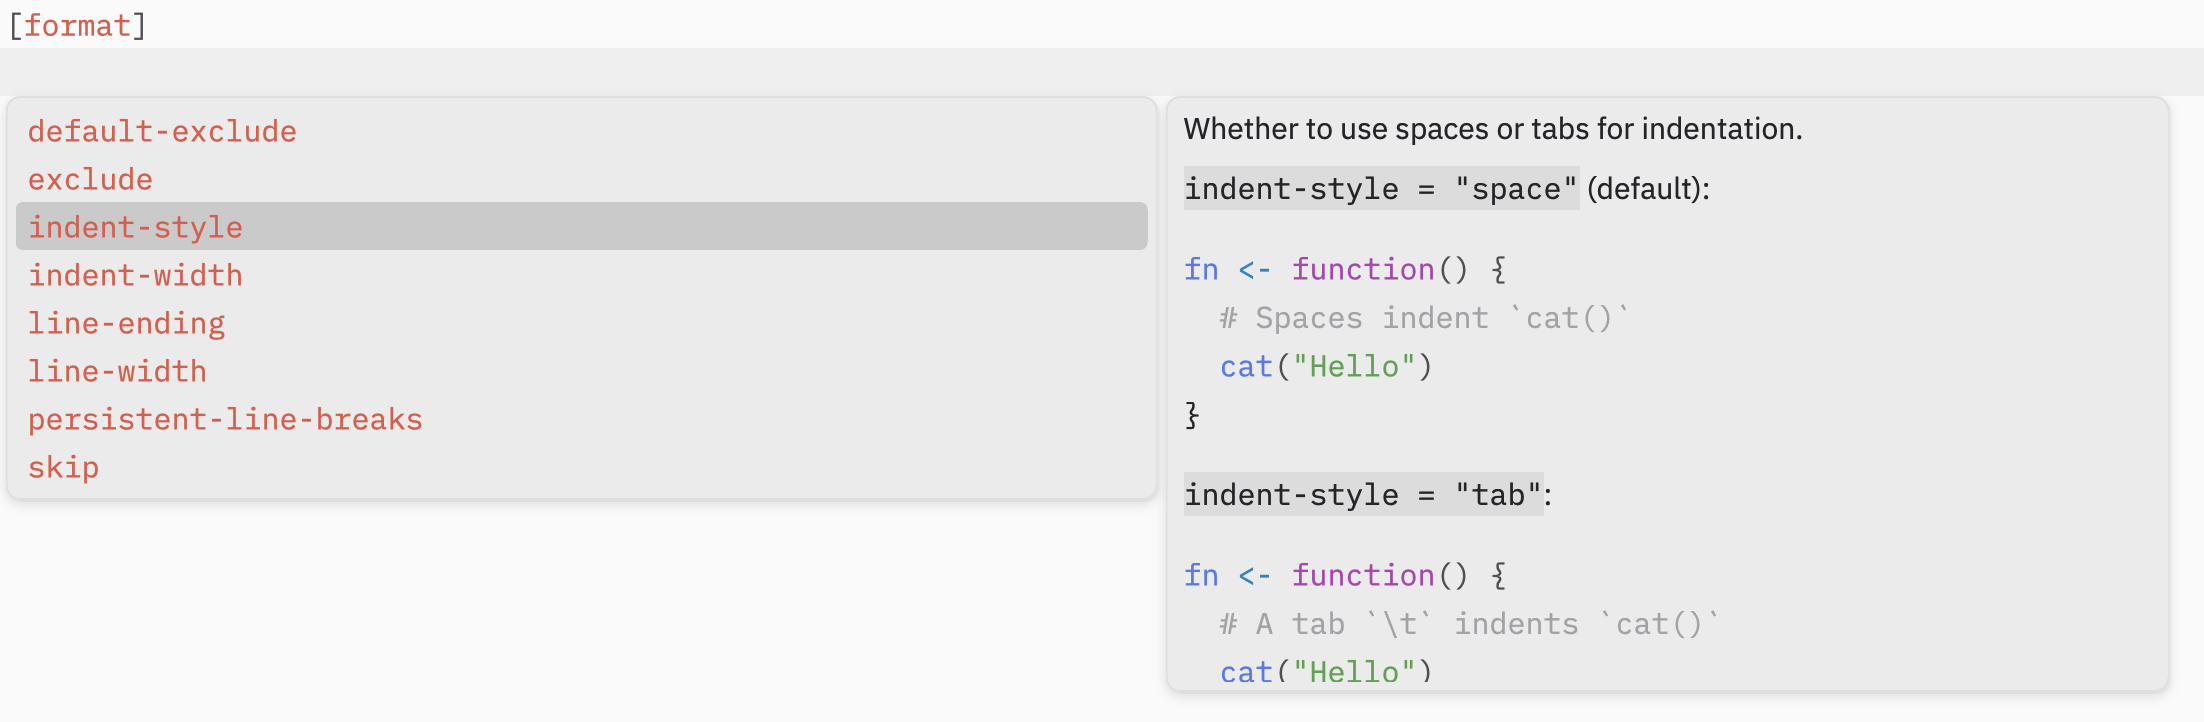
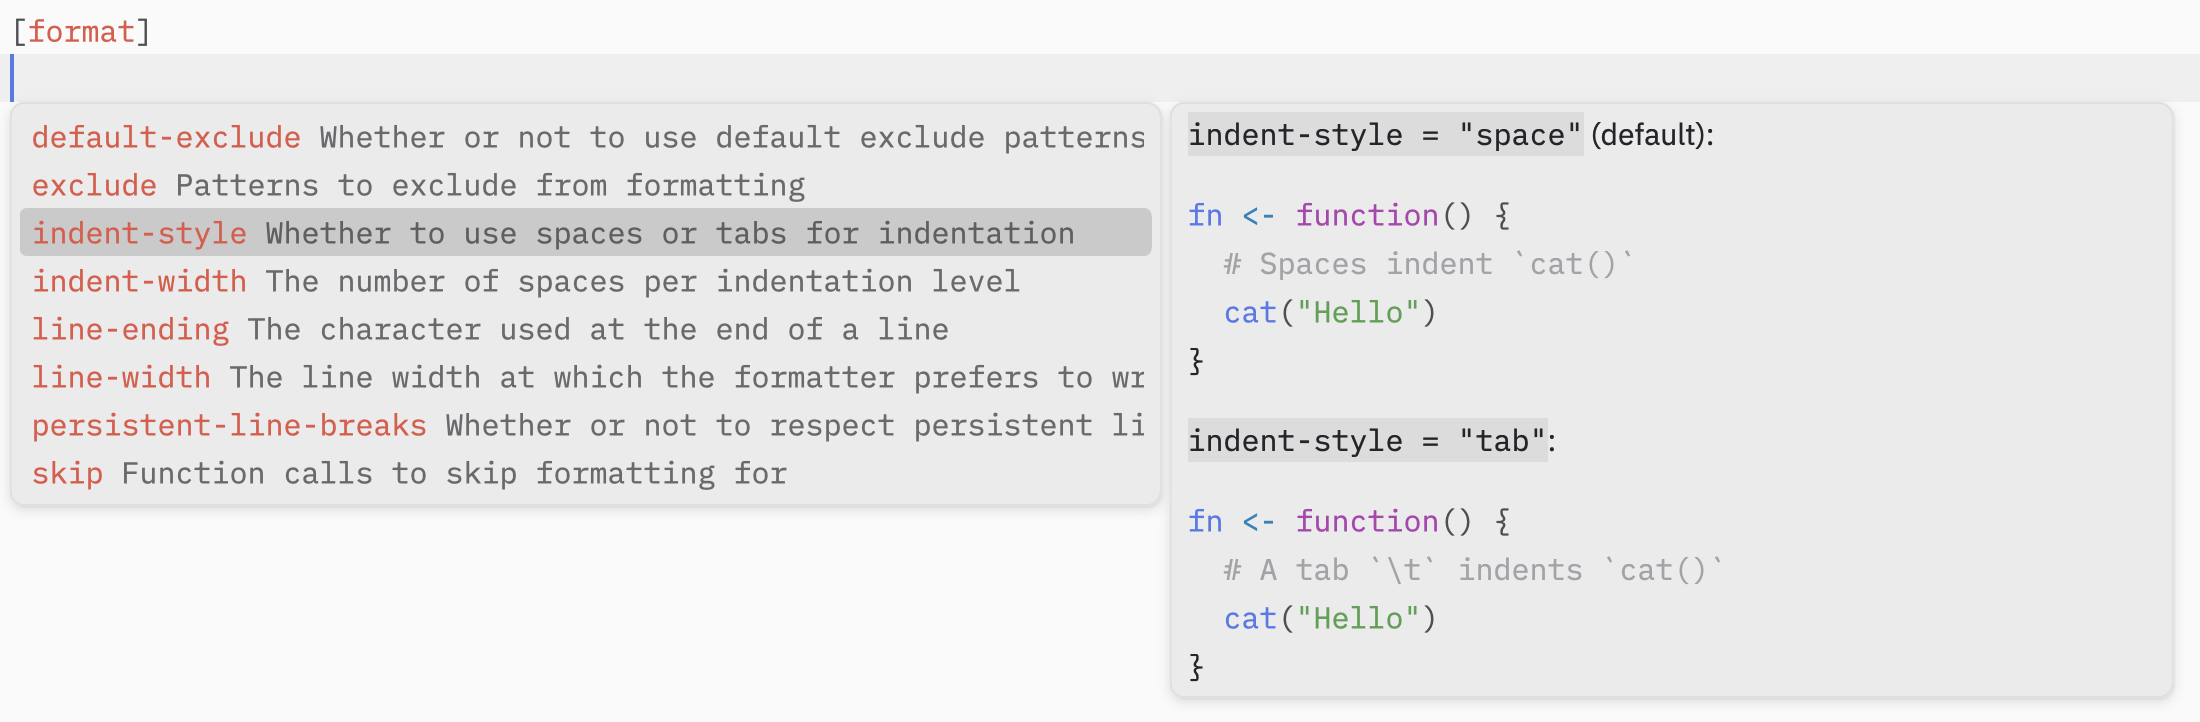
Add `title`s to the schema output
Using schemars H1 markdown headers

diff --git a/crates/workspace/src/toml_options.rs b/crates/workspace/src/toml_options.rs
@@ -48,7 +48,7 @@ pub struct GlobalTomlOptions {}
 #[serde(deny_unknown_fields, rename_all = "kebab-case")]
 #[cfg_attr(feature = "schemars", derive(schemars::JsonSchema))]
 pub struct FormatTomlOptions {
-    /// The line width at which the formatter prefers to wrap lines.
+    /// # The line width at which the formatter prefers to wrap lines
     ///
     /// The value must be greater than or equal to `1` and less than or equal to `320`.
     ///
@@ -57,7 +57,7 @@ pub struct FormatTomlOptions {
     /// `line-width`.
     pub line_width: Option<LineWidth>,
 
-    /// The number of spaces per indentation level.
+    /// # The number of spaces per indentation level
     ///
     /// The value must be greater than or equal to `1` and less than or equal to `24`. The
     /// default value is `2`.
@@ -69,7 +69,7 @@ pub struct FormatTomlOptions {
     /// = "tab"` for the purposes of computing the `line-width`.
     pub indent_width: Option<IndentWidth>,
 
-    /// Whether to use spaces or tabs for indentation.
+    /// # Whether to use spaces or tabs for indentation
     ///
     /// `indent-style = "space"` (default):
     ///
@@ -96,7 +96,7 @@ pub struct FormatTomlOptions {
     /// width.
     pub indent_style: Option<IndentStyle>,
 
-    /// The character air uses at the end of a line.
+    /// # The character used at the end of a line
     ///
     /// - `auto`: The newline style is detected automatically on a file per file basis.
     ///   Files with mixed line endings will be converted to the first detected line
@@ -110,6 +110,8 @@ pub struct FormatTomlOptions {
     /// - `native`: Line endings will be converted to `\n` on Unix and `\r\n` on Windows.
     pub line_ending: Option<LineEnding>,
 
+    /// # Whether or not to respect persistent line breaks
+    ///
     /// Air respects a small set of persistent line breaks as an indication that certain
     /// function calls or function signatures should be left expanded. If this option
     /// is set to `false`, persistent line breaks are ignored.
@@ -118,6 +120,8 @@ pub struct FormatTomlOptions {
     /// should be the only value that influences line breaks.
     pub persistent_line_breaks: Option<bool>,
 
+    /// # Patterns to exclude from formatting
+    ///
     /// By default, Air will refuse to format files matched by patterns listed in
     /// `default-exclude`. Use this option to supply an additional list of exclude
     /// patterns.
@@ -156,6 +160,8 @@ pub struct FormatTomlOptions {
     /// all of the patterns you can provide.
     pub exclude: Option<Vec<String>>,
 
+    /// # Whether or not to use default exclude patterns
+    ///
     /// Air automatically excludes a default set of folders and files. If this option is
     /// set to `false`, these files will be formatted as well.
     ///
@@ -169,6 +175,8 @@ pub struct FormatTomlOptions {
     /// - `import-standalone-*.R`
     pub default_exclude: Option<bool>,
 
+    /// # Function calls to skip formatting for
+    ///
     /// Air typically formats every function call it comes across. To skip formatting of
     /// a single one-off function call, you can use a `# fmt: skip` comment. However, if
     /// you know of particular functions that you use a lot that are part of a custom

diff --git a/crates/settings/src/indent_style.rs b/crates/settings/src/indent_style.rs
@@ -16,9 +16,9 @@ use std::str::FromStr;
 )]
 #[cfg_attr(feature = "schemars", derive(schemars::JsonSchema))]
 pub enum IndentStyle {
-    /// Indent with tabs.
+    /// # Indent with tabs
     Tab,
-    /// Indent with spaces.
+    /// # Indent with spaces
     #[default]
     Space,
 }
